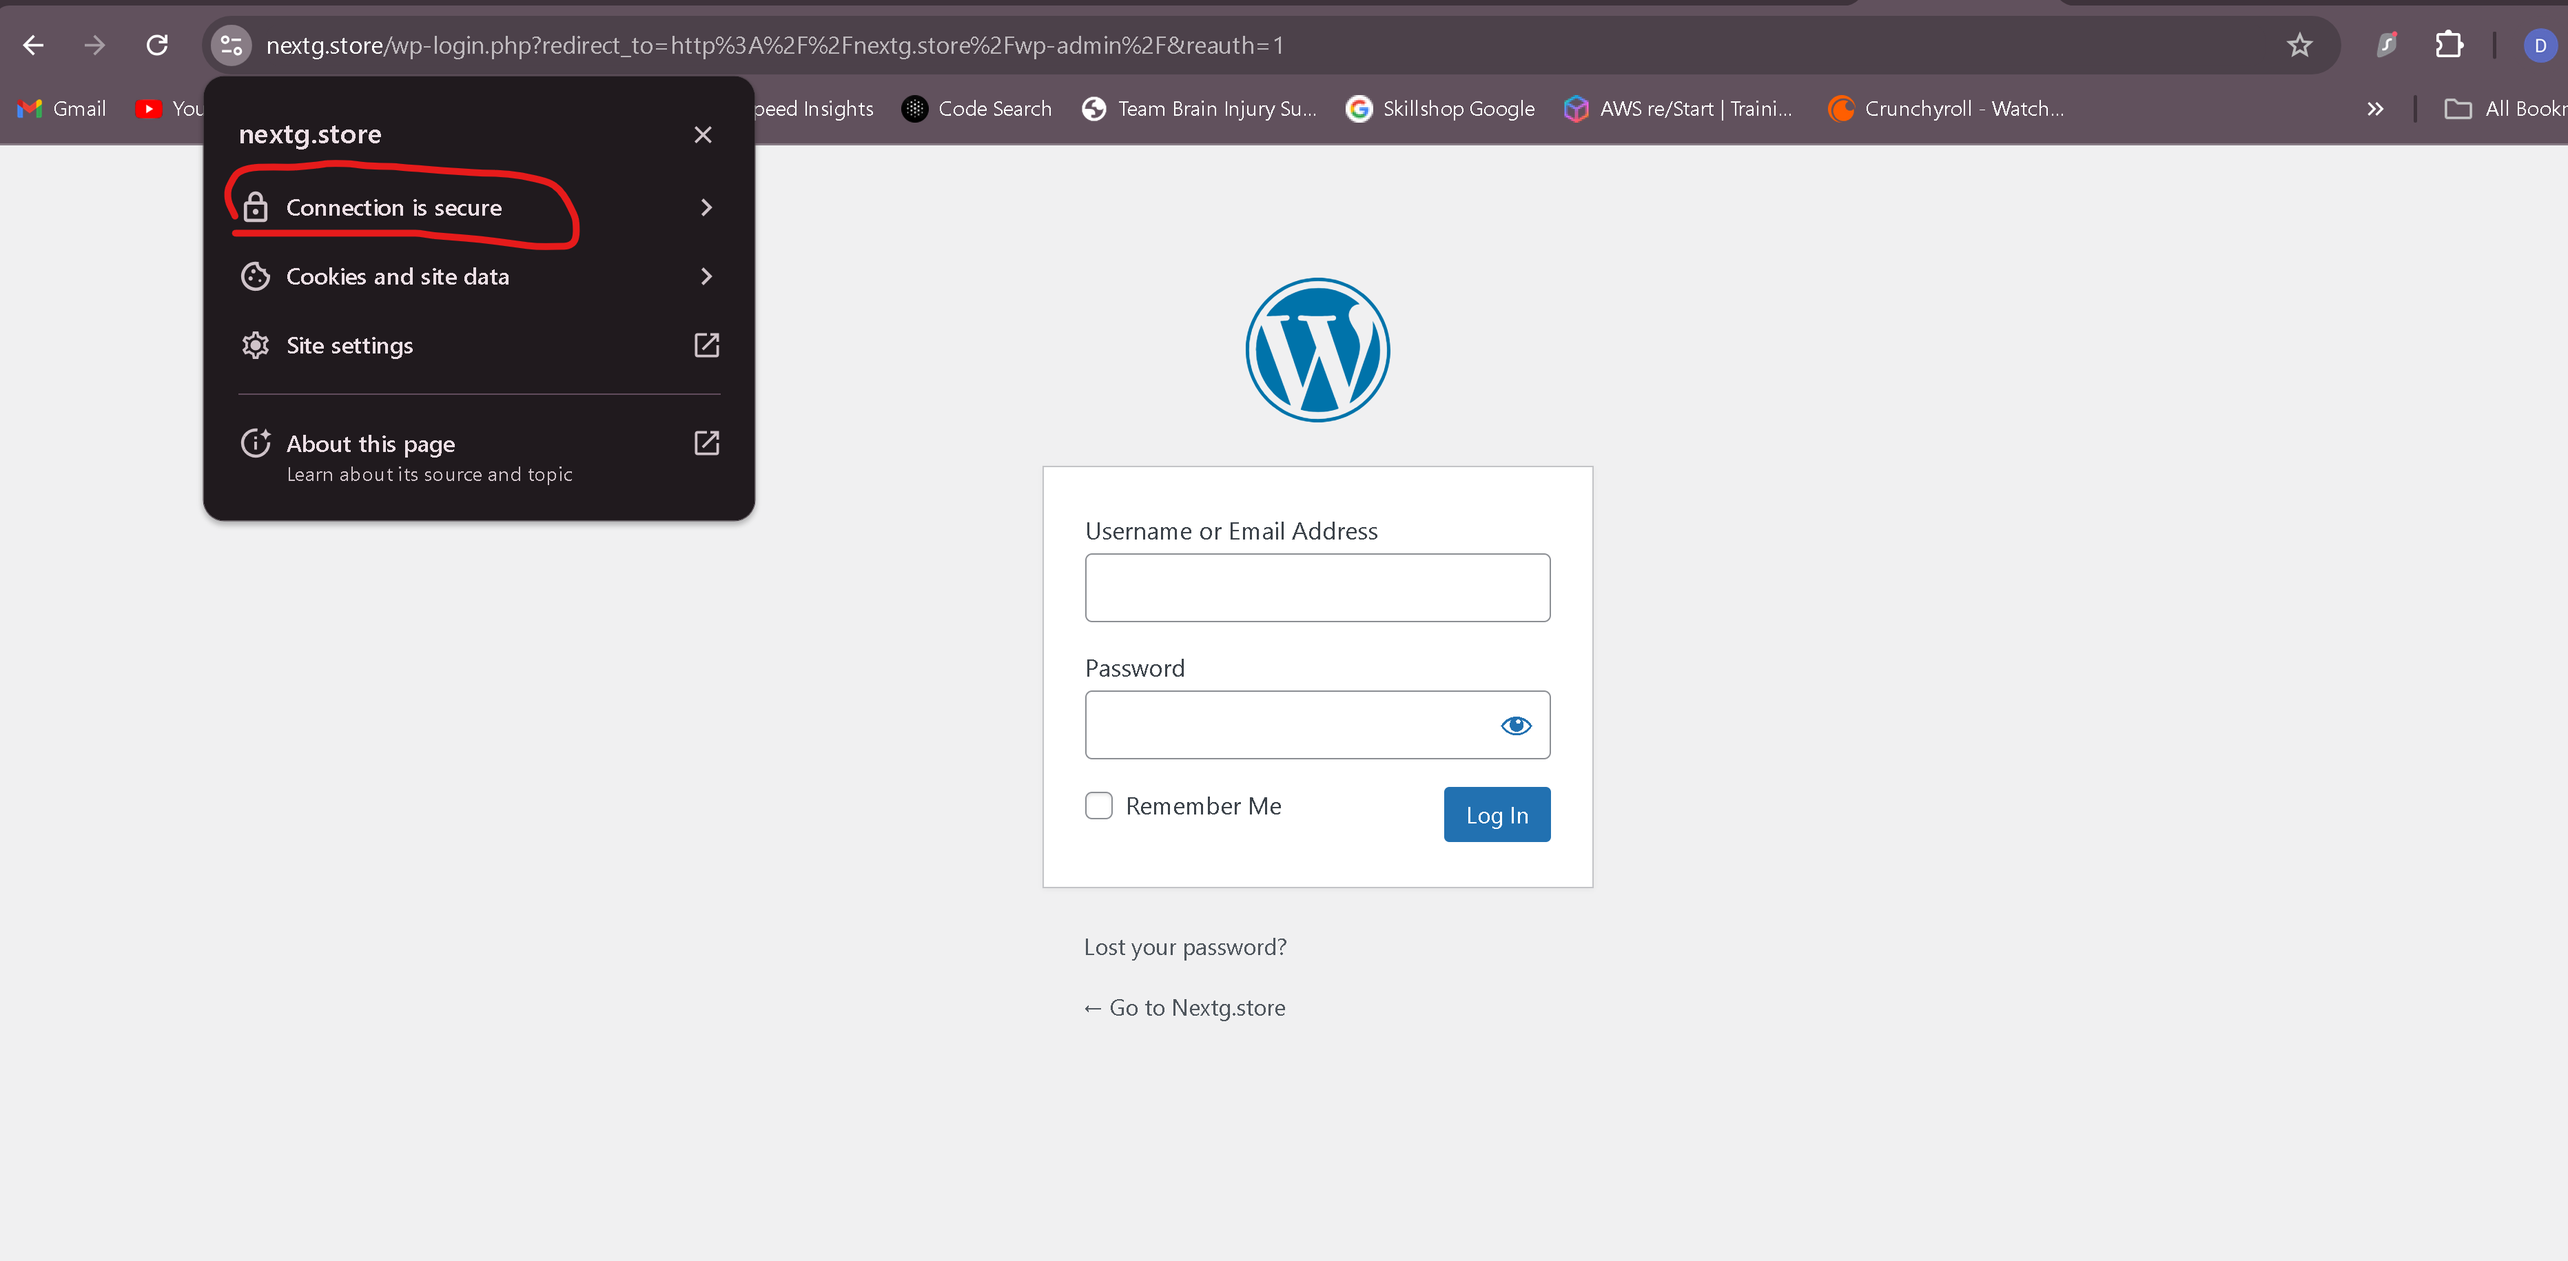
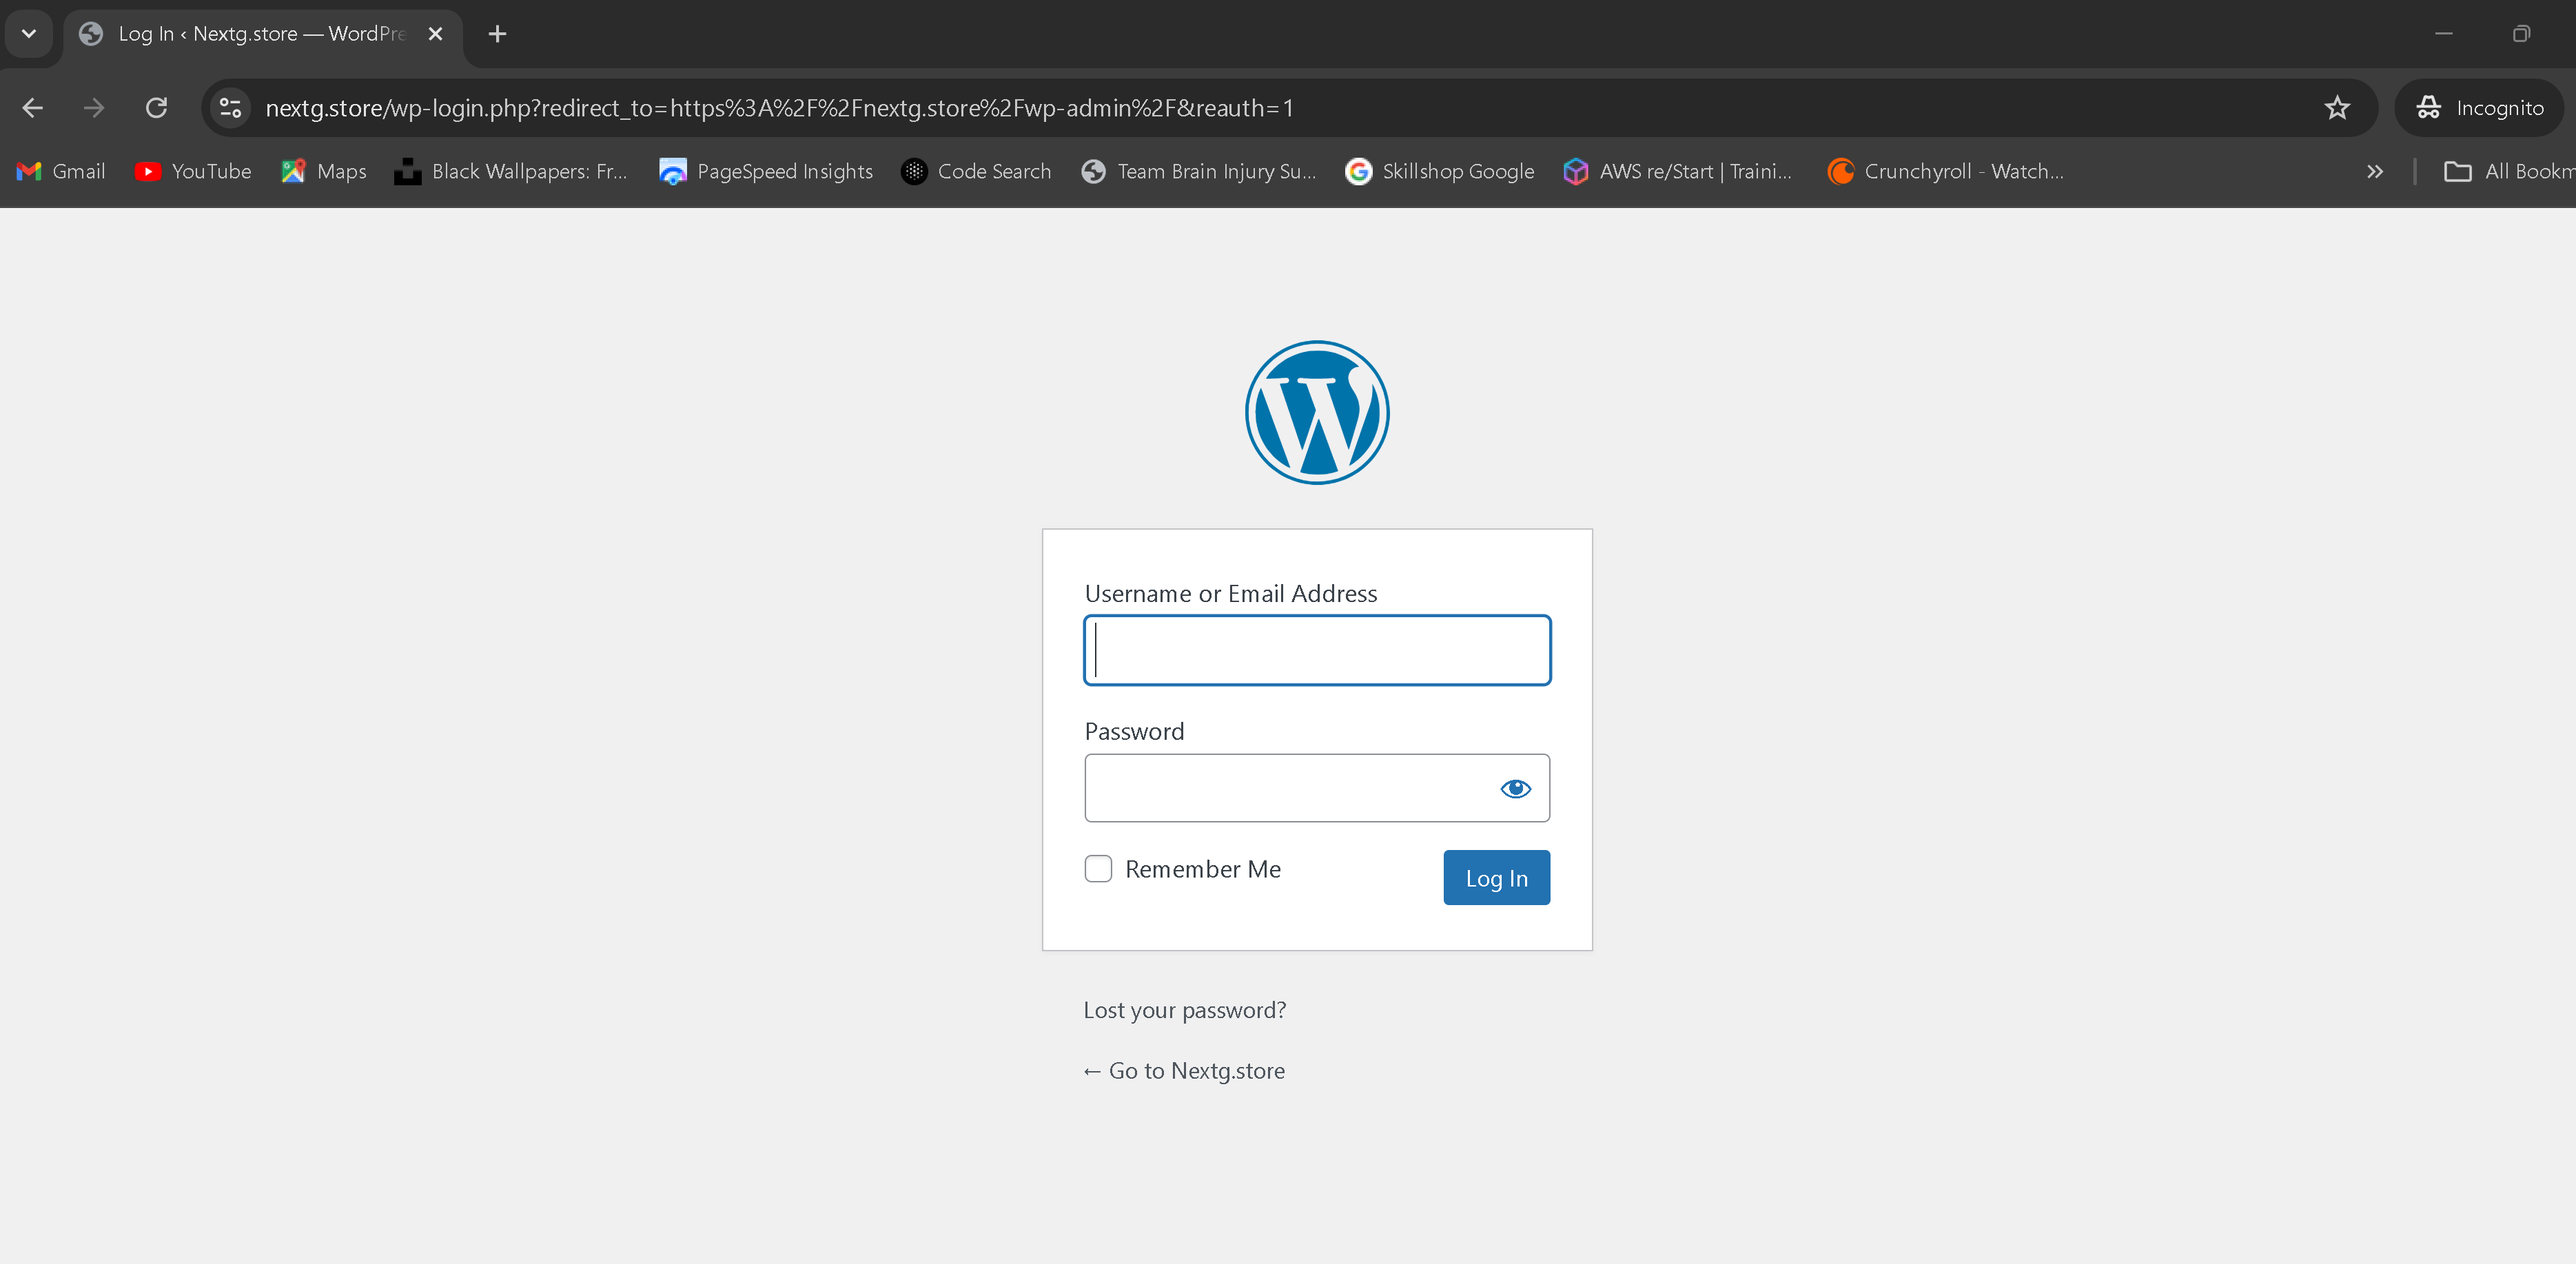
p4 push

diff --git a/project4/project4.md b/project4/project4.md
@@ -324,7 +324,7 @@ Replace **`http://<domain name>`** with your actual domain name. Save the change
 
 * Access your website to verify that Certbot has successfully enabled HTTPS.
 
-![20a](img/image20a.png)
+![20](img/image20.png)
 
 ---
 ---
